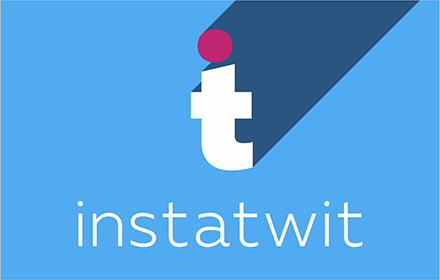
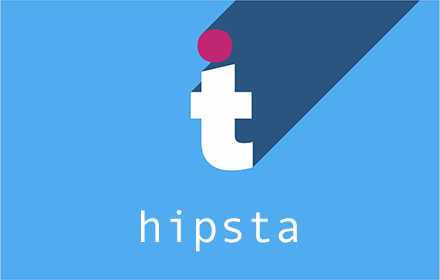
changed application name due to trademark abuse

Changed region(s): [[0.1773, 0.7143, 0.8273, 0.9143]]

diff --git a/README.md b/README.md
@@ -1,12 +1,12 @@
-[![Chrome Web Store](https://img.shields.io/chrome-web-store/v/iegaigpohjiomadeaieoabbaephagnik.svg)](https://chrome.google.com/webstore/detail/instatwit-se-instagram-in/iegaigpohjiomadeaieoabbaephagnik)
-[![Chrome Web Store](https://img.shields.io/chrome-web-store/d/iegaigpohjiomadeaieoabbaephagnik.svg)](https://chrome.google.com/webstore/detail/instatwit-se-instagram-in/iegaigpohjiomadeaieoabbaephagnik)
+[![Chrome Web Store](https://img.shields.io/chrome-web-store/v/acpoopleccnhmeahjimlcfbpfcjiodmn.svg)](https://chrome.google.com/webstore/detail/hipsta-opens-image-links/acpoopleccnhmeahjimlcfbpfcjiodmn)
+[![Chrome Web Store](https://img.shields.io/chrome-web-store/d/acpoopleccnhmeahjimlcfbpfcjiodmn.svg)](https://chrome.google.com/webstore/detail/hipsta-opens-image-links/acpoopleccnhmeahjimlcfbpfcjiodmn)
 
 
-# InstaTweet SE
+# Hipsta
 
 ![Ad](ad_opt.png?raw=true "Ad")  
 
-InstaTwit SE is a google chrome extension that provides you the easiest way to get Instagram photos back in your Twitter feed.
+Hipsta is a google chrome extension that provides you the easiest way to get Instagram™.com's photos back in your Twitter™.com's feed.
 
 To get started, all you need to do is install the extension, and hit the refresh button on your Twitter window. Instagram photos will now show up as they did "in the good old days".
 
